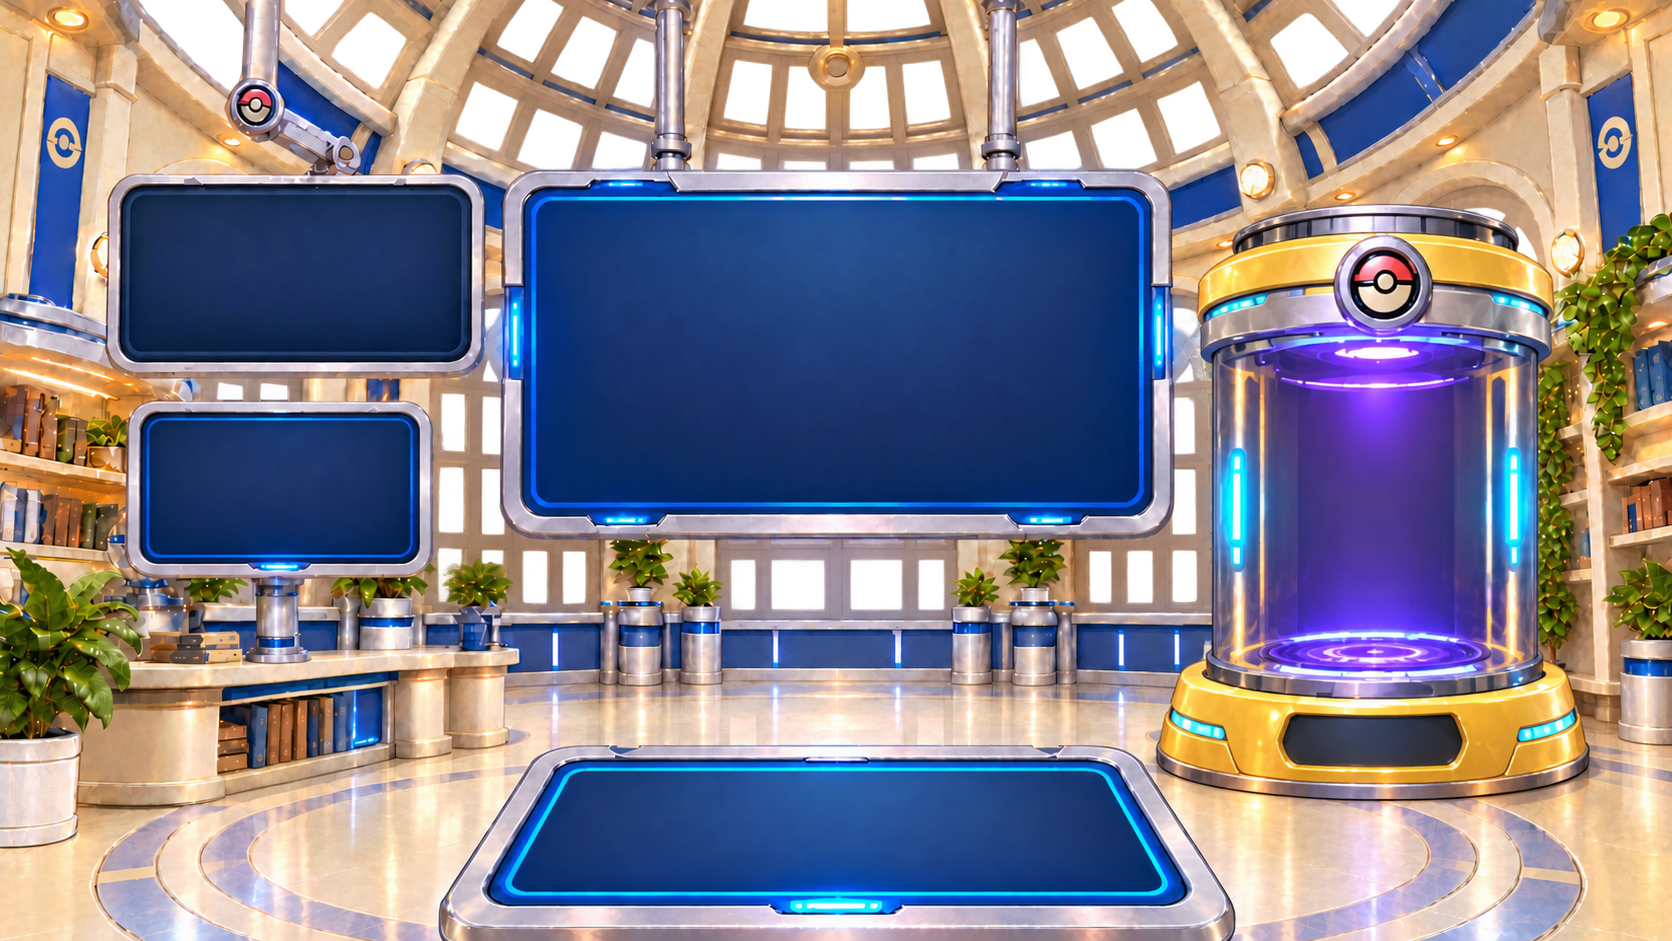
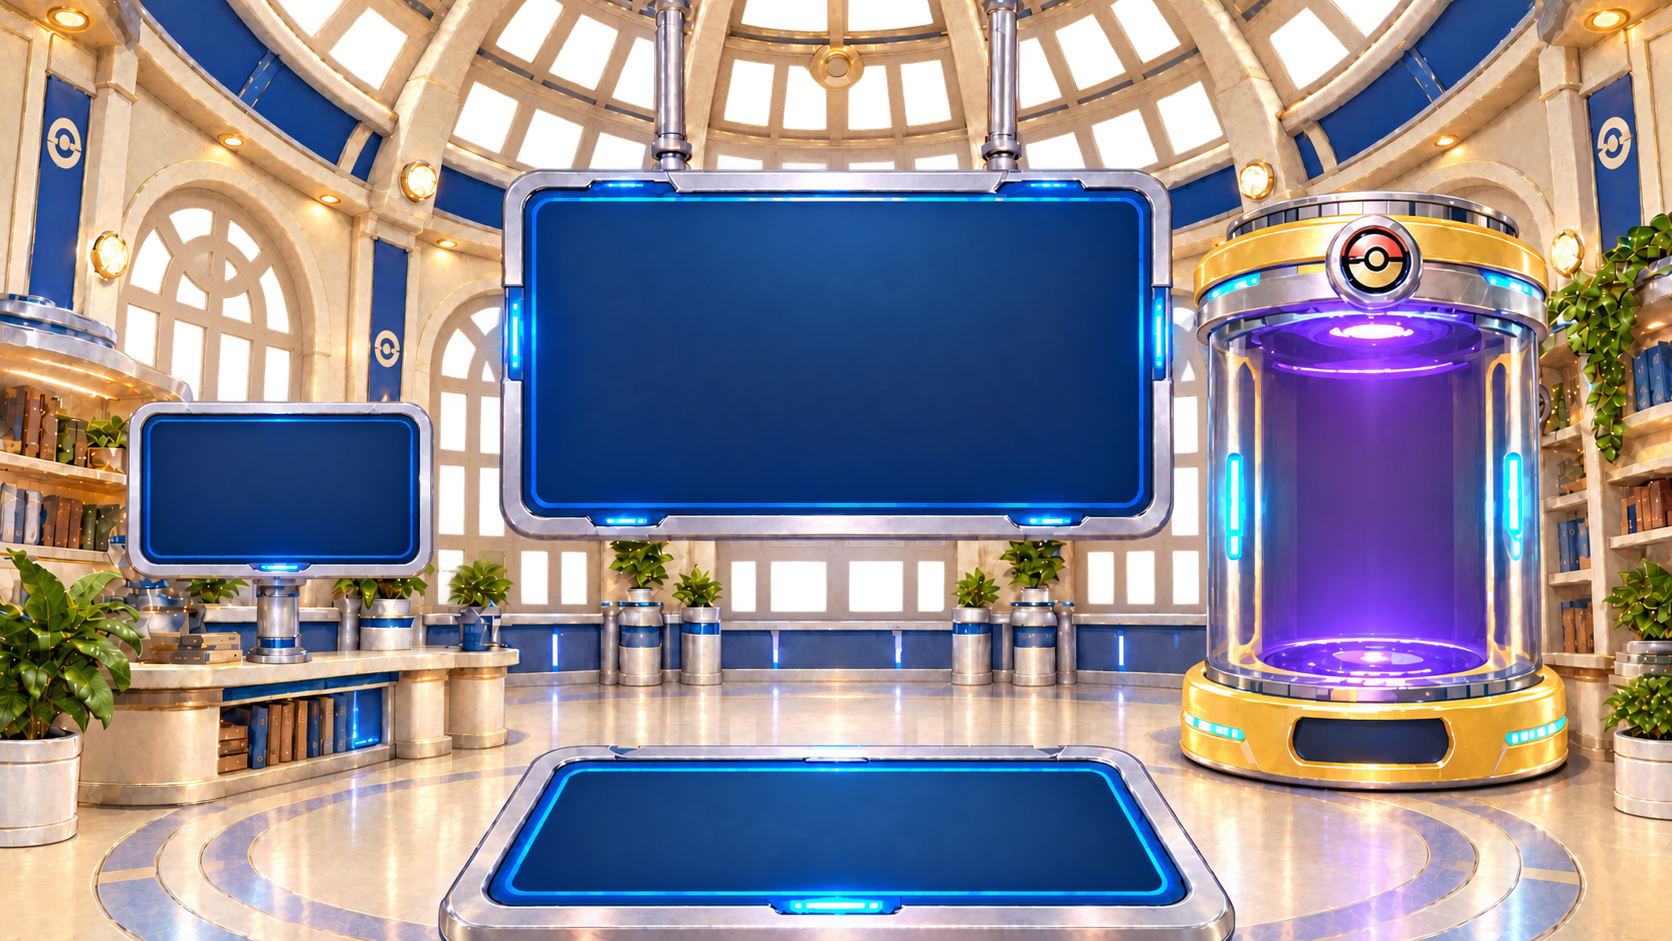
changes to the poke -lab interior

diff --git a/src/views/studyView.vue b/src/views/studyView.vue
@@ -227,6 +227,39 @@ const ratingMessage = ref('')
 const focusSeconds = ref(25 * 60)
 const timerRunning = ref(false)
 const timerFinished = ref(false)
+// Visual completion progress only. Server XP must be awarded by your XP service.
+const SESSION_REWARD_LIMIT = 4
+const completedFocusSessions = ref(0)
+const sessionProgressKey = computed(() => profile.value?.id
+  ? `studydex-focus-completions-v1:${profile.value.id}`
+  : null)
+function readSessionCount(key) {
+  try {
+    const count = Number(localStorage.getItem(key))
+    return Number.isFinite(count) ? Math.max(0, Math.min(SESSION_REWARD_LIMIT, Math.floor(count))) : 0
+  } catch { return 0 }
+}
+watch(sessionProgressKey, (key) => {
+  completedFocusSessions.value = key ? readSessionCount(key) : 0
+}, { immediate: true })
+function recordFocusCompletion() {
+  const key = sessionProgressKey.value
+  if (!key) return
+  completedFocusSessions.value = Math.min(SESSION_REWARD_LIMIT,
+    Math.max(completedFocusSessions.value, readSessionCount(key)) + 1)
+  try { localStorage.setItem(key, String(completedFocusSessions.value)) } catch {
+    // Keep progress for this visit if browser storage is unavailable.
+  }
+}
+function syncFocusCompletions(event) {
+  if (event.key === sessionProgressKey.value || event.key === null) {
+    completedFocusSessions.value = sessionProgressKey.value ? readSessionCount(sessionProgressKey.value) : 0
+  }
+}
+onMounted(() => window.addEventListener('storage', syncFocusCompletions))
+onUnmounted(() => window.removeEventListener('storage', syncFocusCompletions))
+
+
 // Paused/idle/completed is always red, even when fewer than two minutes remain.
 const timerBorderColor = computed(() => !timerRunning.value ? '#ff4057' : focusSeconds.value <= 120 ? '#ffd43b' : '#34e782')
 const timerBorderStyle = computed(() => ({ '--timer-border': timerBorderColor.value }))
@@ -240,6 +273,7 @@ function tickFocusTimer() {
     timerRunning.value = false
     timerFinished.value = true
     clearInterval(focusInterval)
+    recordFocusCompletion()
   }
 }
 function pauseFocusTimer() {
@@ -432,22 +466,24 @@ onUnmounted(() => { clearInterval(focusInterval) })
       <section class="lab-stage" :class="{ 'missing-background': backgroundFailed, 'selection-blur': !enteredLab }" :inert="!enteredLab" :aria-hidden="!enteredLab" :style="timerBorderStyle" aria-label="Poké Lab study room">
         <TownBackground scene="lab" @image-error="backgroundFailed = true" />
 
-        <!-- This coloured ring overlays the red trim baked into the room artwork. -->
+        <!-- This coloured ring follows the lower-left monitor in the new room artwork. -->
         <div class="timer-frame" aria-hidden="true"></div>
         <!-- Timer screen: paused red, running green, final two minutes yellow. -->
         <section class="lab-screen prompt-screen timer-screen" aria-label="25-minute focus timer">
-          <p class="screen-eyebrow">25-minute focus</p>
+          <div class="focus-session-progress" role="img"
+            :aria-label="`${completedFocusSessions} of ${SESSION_REWARD_LIMIT} study sessions completed`">
+            <span v-for="session in SESSION_REWARD_LIMIT" :key="session"
+              class="focus-session-dot" :class="{ 'is-complete': session <= completedFocusSessions }"
+              aria-hidden="true"></span>
+          </div>
+          <span class="focus-session-count" role="status">{{ completedFocusSessions }} / {{ SESSION_REWARD_LIMIT }} sessions</span>
           <strong class="focus-digits" role="timer" aria-label="Time remaining">{{ focusTime }}</strong>
           <div class="focus-actions">
-            <button @click="timerRunning ? pauseFocusTimer() : startFocusTimer()">{{ timerRunning ? 'Pause' : focusSeconds === 1500 ? 'Start' : focusSeconds === 0 ? 'Start again' : 'Resume' }}</button>
-            <button @click="resetFocusTimer">Reset</button>
+            <button @click="timerRunning ? pauseFocusTimer() : startFocusTimer()">{{ timerRunning ? 'Pause' : 'Start' }}</button>
           </div>
           <span v-if="timerFinished" class="focus-finished" role="status">Session complete — take a break!</span>
         </section>
 
-        <nav class="lab-navigation" aria-label="Room navigation">
-          <button type="button" @click="returnToSelection">Topics</button>
-        </nav>
 
         <!-- Blue screen: question and answer on the same display. -->
         <section class="lab-screen answer-screen" aria-label="Flashcard answer and learning content" tabindex="0" @keydown="handleCardKey">
@@ -767,7 +803,7 @@ onUnmounted(() => { clearInterval(focusInterval) })
 .poke-lab-page .picker-shell h1 { margin: 16px 0 12px; color: white; font-size: clamp(28px, 4vw, 48px); font-weight: 800; text-shadow: 0 3px 18px #0007; }
 .poke-lab-page .picker-intro { margin-bottom: 28px; color: #fff6e3; font-size: 17px; }
 .poke-lab-page .bubble-grid { display: grid; grid-template-columns: repeat(auto-fit, minmax(210px, 1fr)); gap: 22px; }
-.poke-lab-page .bubble-card { position: relative; display: flex; flex-direction: column; justify-content: center; align-items: center; gap: 14px; width: 100%; min-height: 190px; padding: 26px 20px; border: 1px solid #ffffff9e; border-radius: 32px; background: linear-gradient(145deg, #ffffff38, #ffffff12); box-shadow: inset 0 1px 0 #ffffffb3, inset 0 -1px 0 #ffffff26, 0 12px 30px #071b3544; backdrop-filter: blur(18px); color: white; font: inherit; cursor: pointer; transition: transform .18s, *background* .18s, box-shadow .18s; }
+.poke-lab-page .bubble-card { position: relative; display: flex; flex-direction: column; justify-content: center; align-items: center; gap: 14px; width: 100%; min-height: 190px; padding: 26px 20px; border: 1px solid #ffffff9e; border-radius: 32px; background: linear-gradient(145deg, #ffffff38, #ffffff12); box-shadow: inset 0 1px 0 #ffffffb3, inset 0 -1px 0 #ffffff26, 0 12px 30px #071b3544; backdrop-filter: blur(18px); color: white; font: inherit; cursor: pointer; transition: transform .18s, background .18s, box-shadow .18s; }
 .poke-lab-page .bubble-card strong { font-size: 22px; line-height: 1.3; overflow-wrap: anywhere; }
 .poke-lab-page .bubble-card > span:last-child { font-size: 13px; color: #fff5df; }
 .poke-lab-page .bubble-symbol { font-size: 36px; color: #ffe699; text-shadow: 0 0 18px #ffe4a455; }
@@ -1088,5 +1124,34 @@ input:focus-visible {
   position: absolute; width: 1px; height: 1px; padding: 0;
   margin: -1px; overflow: hidden; clip-path: inset(50%);
   white-space: nowrap; border: 0;
+}
+
+/* Coordinates measured against the supplied 1672 x 941 room image. */
+@media (min-width: 1001px) {
+  .study-content .lab-stage { width: 100%; height: 100%; aspect-ratio: auto; }
+  .study-content .lab-stage .timer-screen {
+    left: 8.9%; top: 43.95%; width: 15.5%; height: 14.3%;
+    padding: .45cqw .3cqw; box-sizing: border-box; gap: .2cqw;
+    justify-content: center; align-items: center;
+  }
+  .study-content .lab-stage .timer-frame {
+    left: 8.55%; top: 43.5%; width: 16.2%; height: 15.25%; box-sizing: border-box;
+  }
+  .study-content .lab-stage .answer-screen { left: 32.1%; top: 22%; width: 35.8%; height: 30.8%; box-sizing: border-box; }
+  .study-content .lab-stage .lab-console { left: 33.2%; top: 82.1%; width: 33.6%; height: 12.2%; }
+  .timer-screen .focus-digits { font-size: clamp(24px, 2.7cqw, 48px); }
+}
+.study-content .lab-stage .buddy-chamber {
+  left: 74.5%; top: 39.7%; width: 15%; height: 30.8%;
+  padding: 0; box-sizing: border-box;
+}
+.buddy-sprite { width: 96%; height: 94%; }
+.focus-session-progress { display: flex; justify-content: center; gap: clamp(7px, .8cqw, 14px); }
+.focus-session-dot { width: clamp(8px, .8cqw, 14px); aspect-ratio: 1; border-radius: 50%; border: 2px solid #718aa5; background: #102039; box-sizing: border-box; }
+.focus-session-dot.is-complete { border-color: #fff0ac; background: #ffcf52; box-shadow: 0 0 8px #ffc83db3; }
+.focus-session-count { color: #adcbe5; font-size: clamp(9px, .65cqw, 12px); line-height: 1.2; }
+@media (max-width: 1000px) {
+  .study-content .lab-stage .timer-frame { display: none; }
+  .study-content .lab-stage .buddy-chamber { top: 22.34cqw; height: 17.33cqw; }
 }
 </style>
